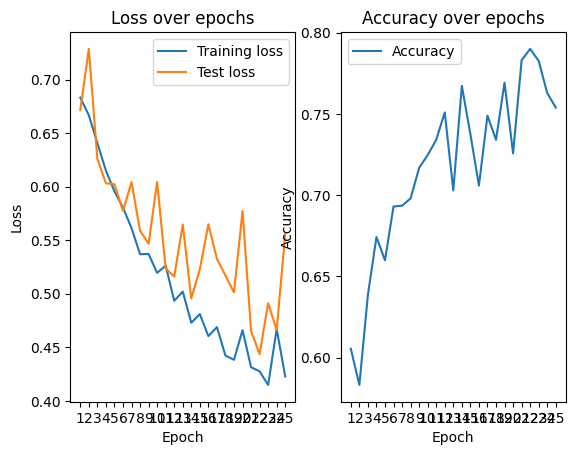
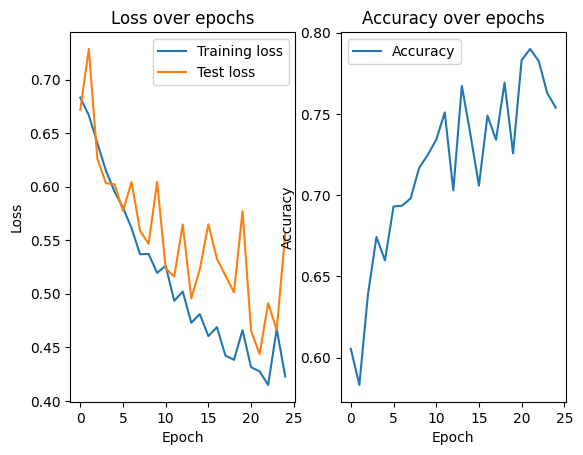
Update README.md
Updated plot

diff --git a/README.md b/README.md
@@ -2,67 +2,73 @@
 
 ---
 
-## Intro
-This project implements a deep learning classifier to distinguish between cat and dog images using PyTorch.  
+## Introduction
+This project implements a deep learning classifier to distinguish between cat and dog images using **PyTorch**.  
 It demonstrates data preprocessing, model training, evaluation, and prediction workflows.  
-The [Cat and Dog Dataset on Kaggle](https://www.kaggle.com/datasets/tongpython/cat-and-dog) is organized into two classes (cats and dogs) stored in separate subdirectories.
+
+The [Cat and Dog Dataset on Kaggle](https://www.kaggle.com/datasets/tongpython/cat-and-dog) is organized into two classes (`cats/` and `dogs/`), stored in separate subdirectories.
 
 ---
 
-## Structure
+## Project Structure
 classification_cat_dog/ <br>
 │── assets/  <br>
 │── inference/ <br>
-│── models/<br>
-│── train/<br>
+│── models/ <br>
+│── train/ <br>
 
 ---
 
 ## Content
 
-Under training you find the trainings pipeline for image classification. The backbone of the model is EfficientNet-B0,which is than followed by a CNN. It can either be trained from scratch or with the pretrained weights from EfficientNet-B0. <br>
-**Results of training:** <br>
+The training pipeline for image classification is located under `train/`.  
+The backbone of the model is **EfficientNet-B0**, followed by custom CNN layers.  
+It can either be trained from scratch or initialized with pretrained EfficientNet-B0 weights.  
 
-Accuracy without pretrained weights: 0.7829 <br>
+**Training Results:** <br>
+
+Accuracy without pretrained weights: **0.7829** <br>
 <div align="center">
-<img src="assets\training_model.png" alt="Cat" height="300"/> 
+<img src="assets/training_model.png" alt="Training without pretrained weights" height="300"/> 
 </div>
 <br>
-Accuracy with pretrained weights: 0.9683 <br>
+
+Accuracy with pretrained weights: **0.9683** <br>
 <div align="center">
-<img src="assets\training_pretrained_model.png" alt="Dog" height="300"/>
+<img src="assets/training_pretrained_model.png" alt="Training with pretrained weights" height="300"/>
 </div>
 
 <br>
-The best models of each training is saved under models and can later be used for inference. <br>
-Under inference we set up the prediction either for our test data set or our own images.
+The best models from each training run are saved under `models/` and can later be used for inference.  
+
+Inference scripts are located under `inference/`, where predictions can be run on the test dataset or on custom images.  
+
 <p>
-A demonstration of the inference of your own images is in the notebook 
+A demonstration of inference on custom images is provided in the notebook  
 <a href="example_notebook.ipynb">example_notebook.ipynb</a>.
 </p>
+
 <br>
 <div align="center">
-<img src="assets/output_cat.png" alt="Cat" height="300"/> 
+<img src="assets/output_cat.png" alt="Inference example - Cat" height="300"/> 
 </div>
 
 <div align="center">
-  <img src="assets/output_dog.png" alt="Dog" height="300"/>
+<img src="assets/output_dog.png" alt="Inference example - Dog" height="300"/>
 </div>
 
 ---
 
-## How to install
+## Installation 
 
-Creat python env
-
-```bash
-conda create -n classification_cat_dog python==3.10
-conda activate classification_cat_dog
-```
-Clone the repository and install dependencies:
-
-```bash
-git clone https://github.com/WJannik/classification_cat_dog.git
-cd classification_cat_dog
+Creat python env 
+```bash 
+conda create -n classification_cat_dog python==3.10 
+conda activate classification_cat_dog 
+``` 
+Clone the repository and install dependencies: 
+```bash 
+git clone https://github.com/WJannik/classification_cat_dog.git 
+cd classification_cat_dog 
 pip install -r requirements.txt
 ```
